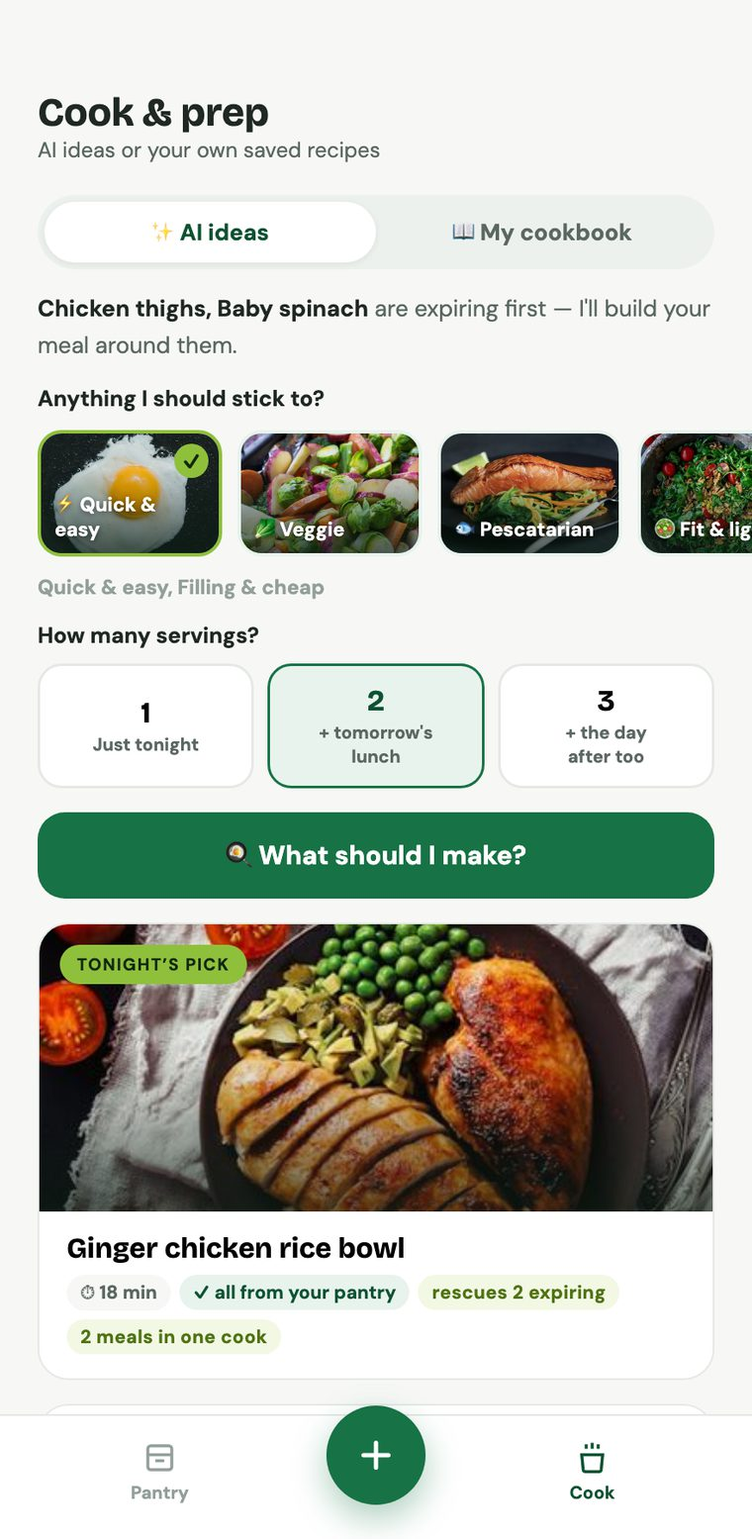
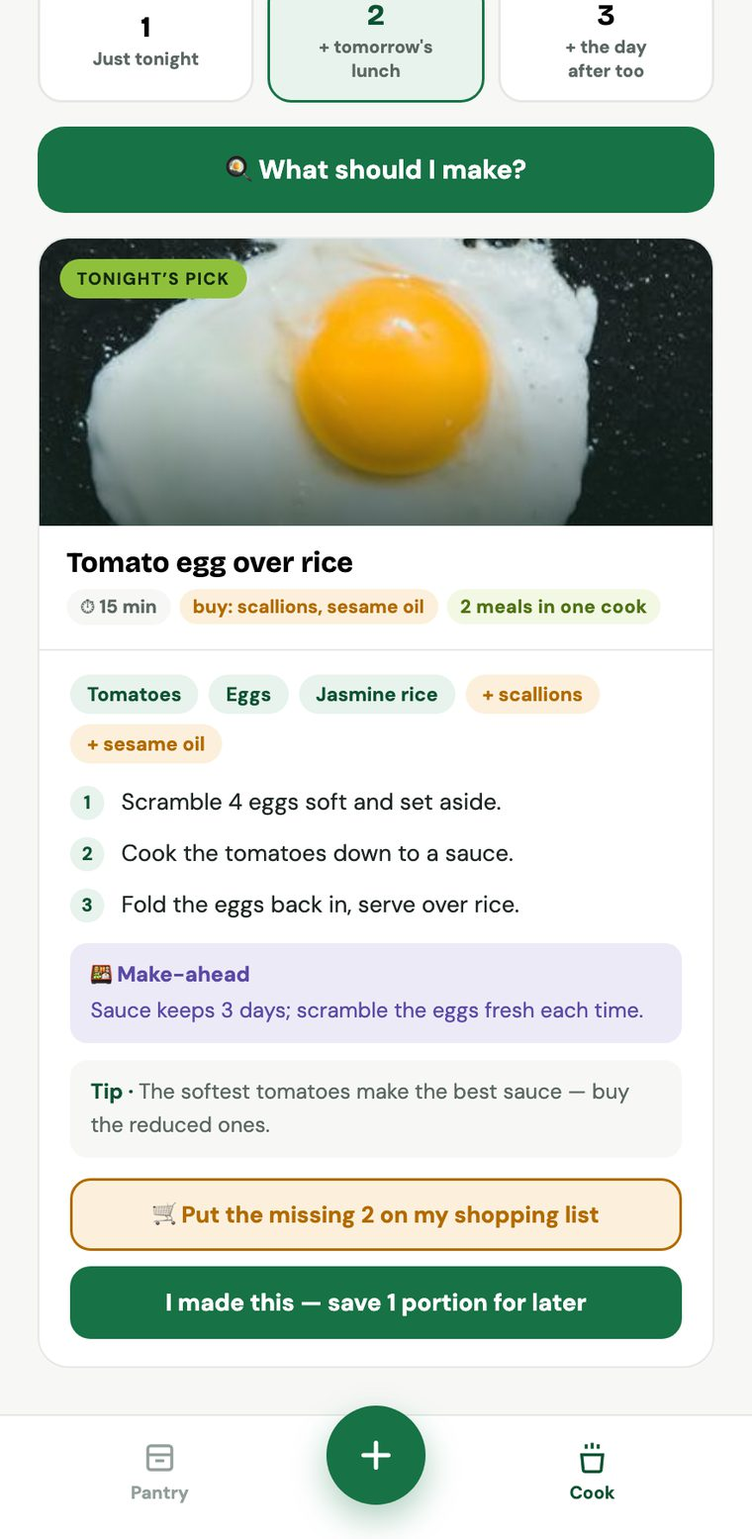
Close the loop: give "what's missing" somewhere to go
Shelfie could tell you a recipe was short two ingredients and then drop
it — the shortfall is discovered at the stove and needed in the shop,
hours later, with nothing carrying it between the two. That was the last
open half of the behaviour chain.

The shopping list is the other half of the pantry rather than a fourth
tab: "What I have" and "What I need" are two segments of one place,
because they are two states of the same inventory. Every line keeps the
reason it exists — "for Tomato egg over rice", "running low" — since a
bare list of five words is unreadable in a shop the next day. Things
arrive from a recipe card in one tap, from a pantry row's restock
button, or typed.

The receipt closes the circuit with no user action: commitReview() ticks
off everything the scan matched — "4 items added · 2 ticked off your
list". Cook → short → list → shop → receipt → pantry → cook.

Fixed while building it:
- the missing-ingredient engine substring-matched its assumed-staples
  list, so "sesame oil" counted as owned because of "oil". A card would
  say "buy sesame oil" while the list silently skipped it. Now every
  token must be a staple word: "olive oil" is assumed, "sesame oil" is
  a real purchase.
- restocking something you still own was impossible: the have-check
  that protects recipe imports ate it. addToList() takes an explicit
  restock opt-out.
- the What-I-have count went stale after any pantry edit.

diff --git a/prototypes/shelfie.html b/prototypes/shelfie.html
@@ -154,6 +154,37 @@ button{font-family:var(--sans);cursor:pointer;border:none;background:none}
 .btn-block{display:block;width:calc(100% - 44px);margin:14px 22px}
 .err{display:none;margin:6px 22px;background:var(--red-bg);border-radius:14px;padding:12px 16px;font-size:13px;color:var(--red);line-height:1.5}
 
+/* shopping list */
+.seg .cnt{display:inline-block;margin-left:6px;background:var(--ink-3);color:#fff;font-size:10.5px;font-weight:700;padding:1px 6px;border-radius:999px;min-width:18px}
+.seg .cnt:empty{display:none}
+.seg button.on .cnt{background:var(--green)}
+.addline{display:flex;gap:8px;margin:12px 22px 4px}
+.addline input{flex:1;min-width:0;padding:11px 14px;border:1.5px solid var(--line);border-radius:14px;font-size:14px;font-family:var(--sans);background:#fff}
+.addline input:focus{border-color:var(--green);outline:none}
+.addline button{flex:0 0 46px;border-radius:14px;background:var(--green);color:#fff;font-size:20px;font-weight:700}
+.addline button:hover{background:var(--green-deep)}
+.lrow{background:var(--card);border:1px solid var(--line);border-radius:14px;padding:11px 13px;display:flex;align-items:center;gap:11px;margin-bottom:8px}
+.lrow .box{flex:0 0 24px;height:24px;border:2px solid #C3D2C8;border-radius:8px;display:flex;align-items:center;justify-content:center;font-size:13px;color:transparent}
+.lrow .box:hover{border-color:var(--green)}
+.lrow .nm{font-size:14.5px;font-weight:700}
+.lrow .why{font-size:11.5px;color:var(--ink-3);margin-top:1px}
+.lrow .why b{color:var(--green-deep);font-weight:700}
+.lrow .del{margin-left:auto;color:var(--ink-3);font-size:15px;padding:4px 2px 4px 8px}
+.lrow .del:hover{color:var(--red)}
+.lrow.got{opacity:.55}
+.lrow.got .box{background:var(--green);border-color:var(--green);color:#fff}
+.lrow.got .nm{text-decoration:line-through}
+.gothead{display:flex;align-items:center;gap:8px;margin:16px 0 8px}
+.gothead b{font-size:13px;font-weight:700;letter-spacing:.06em;text-transform:uppercase;color:var(--ink-3)}
+.gothead button{margin-left:auto;font-size:12px;font-weight:700;color:var(--green-deep);text-decoration:underline;text-underline-offset:3px}
+.listnote{margin:4px 22px 0;font-size:12.5px;color:var(--ink-2);line-height:1.55}
+.listnote b{color:var(--ink)}
+.btn-list{display:block;width:100%;border:1.5px solid var(--amber);color:var(--amber);background:var(--amber-bg);font-size:13.5px;font-weight:700;padding:11px;border-radius:12px;text-align:center;margin-bottom:9px}
+.btn-list:hover{background:#F8E6C6}
+.btn-list.done{border-color:var(--line);background:var(--paper);color:var(--ink-3);cursor:default}
+.item .buy{color:var(--ink-3);font-size:14px;padding:4px 2px 4px 8px}
+.item .buy:hover{color:var(--green-deep)}
+
 /* cook segments */
 .seg{display:flex;background:#EDF1EE;border-radius:999px;padding:4px;margin:6px 22px 4px}
 .seg button{flex:1;padding:9px;border-radius:999px;font-size:13.5px;font-weight:700;color:var(--ink-2)}
@@ -310,7 +341,19 @@ button{font-family:var(--sans);cursor:pointer;border:none;background:none}
         <button class="avatar" id="avBtn" onclick="go('acct')" aria-label="Account">·</button>
       </div>
     </div>
+    <div class="seg" role="tablist">
+      <button class="on" id="segHave" onclick="setPanTab('have')">🧺 What I have<span class="cnt" id="cntHave"></span></button>
+      <button id="segNeed" onclick="setPanTab('need')">🛒 What I need<span class="cnt" id="cntNeed"></span></button>
+    </div>
     <div id="pantryList"></div>
+    <div id="needList" style="display:none">
+      <div class="addline">
+        <input id="lName" placeholder="Something else to pick up…" autocomplete="off" onkeydown="if(event.key==='Enter')addTypedList()">
+        <button onclick="addTypedList()" aria-label="Add to list">＋</button>
+      </div>
+      <p class="listnote" id="listNote"></p>
+      <div id="listRows"></div>
+    </div>
   </div>
 
   <!-- ADD -->
@@ -492,7 +535,7 @@ let pantry=[
   {name:"Soy sauce",emoji:"🫙",qty:"1 bottle",days:365}
 ];
 let prepped=[], cookbook=[], saved=0, cookedCount=0, servings=1, detected=[], pendingRecipe=null;
-let src='receipt', typedDays=2, menu=[];
+let src='receipt', typedDays=2, menu=[], list=[], panTab='have';
 const $=id=>document.getElementById(id);
 function esc(s){return String(s).replace(/&/g,'&amp;').replace(/</g,'&lt;');}
 function escA(s){return esc(s).replace(/"/g,'&quot;');}
@@ -500,7 +543,7 @@ function escA(s){return esc(s).replace(/"/g,'&quot;');}
 let signedIn=false;
 async function persist(){
   if(!hasStore)return;
-  try{ await window.storage.set(KEY, JSON.stringify({profile,signedIn,pantry,prepped,cookbook,saved,cookedCount,menu})); setSync(true); }
+  try{ await window.storage.set(KEY, JSON.stringify({profile,signedIn,pantry,prepped,cookbook,saved,cookedCount,menu,list})); setSync(true); }
   catch(e){ setSync(false); }
 }
 async function restore(){
@@ -511,7 +554,7 @@ async function restore(){
     if(r&&r.value){
       const s=JSON.parse(r.value);
       profile=s.profile||null; signedIn=!!s.signedIn; pantry=s.pantry||pantry; prepped=s.prepped||[];
-      cookbook=s.cookbook||[]; saved=s.saved||0; cookedCount=s.cookedCount||0; menu=s.menu||[];
+      cookbook=s.cookbook||[]; saved=s.saved||0; cookedCount=s.cookedCount||0; menu=s.menu||[]; list=s.list||[];
       if(profile&&signedIn){ enterApp(true); }
       else if(profile){ showLoginMode(); }
     }
@@ -563,7 +606,7 @@ function logIn(){
 }
 async function startFresh(){
   profile=null; signedIn=false;
-  pantry=[];prepped=[];cookbook=[];saved=0;cookedCount=0;
+  pantry=[];prepped=[];cookbook=[];saved=0;cookedCount=0;list=[];
   if(hasStore){try{await window.storage.delete(KEY);}catch(e){}}
   rollName();
   $('loginBox').style.display='none';
@@ -594,7 +637,7 @@ function signOut(){
   toast('Signed out — log back in with your email');
 }
 async function clearData(){
-  pantry=[];prepped=[];cookbook=[];saved=0;cookedCount=0;
+  pantry=[];prepped=[];cookbook=[];saved=0;cookedCount=0;list=[];
   if(hasStore){try{await window.storage.delete(KEY);}catch(e){}}
   renderPantry(); updateStats(); toast('All data cleared');
 }
@@ -608,7 +651,7 @@ function go(k){
   $({pantry:'vPantry',add:'vAdd',cook:'vCook',acct:'vAcct',import:'vImport'}[k]).classList.add('on');
   $('tPantry').classList.toggle('on',k==='pantry');
   $('tCook').classList.toggle('on',k==='cook'||k==='import');
-  if(k==='pantry')renderPantry();
+  if(k==='pantry'){renderPantry();renderList();updateCounts();}
   if(k==='cook'){renderCookIntro();renderMenuChips();renderBook();}
   if(k==='acct')updateStats();
 }
@@ -635,6 +678,7 @@ function lifeLabel(d){
 }
 function lifeClass(d){return d<=1?'d0':(d<=3?'d1':'d2');}
 function renderPantry(){
+  updateCounts();
   const el=$('pantryList');
   if(!pantry.length&&!prepped.length){el.innerHTML='<div class="empty-pan"><div class="big">🧺</div><b>Nothing tracked yet.</b><br>Tap ＋ below and scan the receipt from your<br>last grocery run — it takes one photo.</div>';return;}
   const soon=pantry.filter(p=>p.days<=3).sort((a,b)=>a.days-b.days);
@@ -643,7 +687,7 @@ function renderPantry(){
   const prow=(p,i)=>`<div class="item prepitem"><span class="em">🍱</span><div><div class="nm">${esc(p.name)}</div><div class="qt">${p.portions} portion${p.portions>1?'s':''} ready to eat</div></div><span class="life dp">eat within ${p.days}d</span><button class="del" aria-label="Eat one portion" onclick="eatPrep(${i})">✓</button></div>`;
   const row=p=>{const i=pantry.indexOf(p);
     const sub=[p.qty,p.price?'$'+Number(p.price).toFixed(2):''].filter(Boolean).join(' · ');
-    return `<div class="item">${ingThumb(p)}<div><div class="nm">${esc(p.name)}</div><div class="qt">${esc(sub)}</div></div><span class="life ${lifeClass(p.days)}">${lifeLabel(p.days)}</span><button class="del" aria-label="Remove ${esc(p.name)}" onclick="delItem(${i})">✕</button></div>`;};
+    return `<div class="item">${ingThumb(p)}<div><div class="nm">${esc(p.name)}</div><div class="qt">${esc(sub)}</div></div><span class="life ${lifeClass(p.days)}">${lifeLabel(p.days)}</span><button class="buy" aria-label="Add ${escA(p.name)} to shopping list" title="Add to shopping list" onclick="buyAgain(${i})">🛒</button><button class="del" aria-label="Remove ${escA(p.name)}" onclick="delItem(${i})">✕</button></div>`;};
   const grp=(cls,title,html,n)=>n?`<div class="grp"><div class="grp-h ${cls}"><b>${title}</b><span class="n">${n}</span></div>${html}</div>`:'';
   el.innerHTML=
     grp('prep','🍱 Prepped &amp; ready',prepped.map(prow).join(''),prepped.length)+
@@ -651,6 +695,99 @@ function renderPantry(){
     grp('fresh','✦ Fresh',fresh.map(row).join(''),fresh.length)+
     grp('staple','◆ Staples',staple.map(row).join(''),staple.length);
 }
+/* ---------- shopping list ---------- */
+/* The pantry answers "what do I have"; this answers "what don't I", which is
+   why they are two halves of one tab rather than two places. Every entry keeps
+   the reason it exists — a recipe name, or "ran out" — because that reason is
+   what makes a list in a shop readable a day after you wrote it. */
+function setPanTab(t){
+  panTab=t;
+  $('segHave').classList.toggle('on',t==='have');
+  $('segNeed').classList.toggle('on',t==='need');
+  $('pantryList').style.display=t==='have'?'block':'none';
+  $('needList').style.display=t==='need'?'block':'none';
+  if(t==='need')renderList();
+}
+function onList(name){
+  const n=norm(name);
+  return list.some(l=>{const ln=norm(l.name);return ln===n||ln.includes(n)||n.includes(ln);});
+}
+/* Already in the pantry, or already written down: either way, don't add it twice.
+   `restock` opts out of the pantry check — "running low" is about something you
+   still have, so the check that protects recipe imports would silently eat it. */
+function addToList(names,why,restock){
+  const added=[];
+  names.forEach(nm=>{
+    const name=String(nm).trim();
+    if(!name||onList(name))return;
+    if(!restock&&haveIngredient(name))return;
+    list.push({name,why:why||'',forRecipe:!restock,got:false});
+    added.push(name);
+  });
+  updateCounts(); renderList(); persist();
+  return added;
+}
+function addTypedList(){
+  const v=$('lName').value.trim();
+  if(!v){toast('Type what you need first');return;}
+  const added=addToList([v],'you added it',true);
+  $('lName').value='';
+  toast(added.length?v+' is on the list':v+' is already on the list');
+}
+function addMissingFrom(names,dish){
+  const added=addToList(names,dish);
+  if(!added.length){toast('Already on your list');return false;}
+  toast(added.length+(added.length>1?' things':' thing')+' added for '+dish);
+  return true;
+}
+function addRecMissing(i){
+  const rc=window._recs[i];
+  if(addMissingFrom(rc.missing||[],rc.name)){
+    const b=$('lbtn'+i); if(b){b.textContent='✓ On your shopping list';b.classList.add('done');}
+  }
+}
+function addBookMissing(i){
+  const r=cookbook[i];
+  if(addMissingFrom(missingFor(r),r.name)){
+    const b=$('blbtn'+i); if(b){b.textContent='✓ On your shopping list';b.classList.add('done');}
+  }
+}
+function buyAgain(i){
+  const p=pantry[i];
+  const added=addToList([p.name],'running low',true);
+  toast(added.length?p.name+' added to your list':p.name+' is already on the list');
+}
+function toggleGot(i){ list[i].got=!list[i].got; renderList(); updateCounts(); persist(); }
+function delListItem(i){ const n=list[i].name; list.splice(i,1); renderList(); updateCounts(); persist(); toast('Removed '+n); }
+function clearGot(){ list=list.filter(l=>!l.got); renderList(); updateCounts(); persist(); }
+function renderList(){
+  const todo=list.map((l,i)=>({l,i})).filter(x=>!x.l.got);
+  const got=list.map((l,i)=>({l,i})).filter(x=>x.l.got);
+  const row=({l,i})=>`<div class="lrow${l.got?' got':''}">
+      <button class="box" onclick="toggleGot(${i})" aria-label="${l.got?'Not got yet':'Got it'}" aria-pressed="${l.got}">✓</button>
+      <div><div class="nm">${esc(l.name)}</div>${l.why?`<div class="why">${l.forRecipe?'for ':''}<b>${esc(l.why)}</b></div>`:''}</div>
+      <button class="del" onclick="delListItem(${i})" aria-label="Remove ${escA(l.name)}">✕</button>
+    </div>`;
+  $('listRows').innerHTML= (list.length?'':`<div class="empty-pan"><div class="big">🛒</div><b>Nothing to buy yet.</b><br>When a recipe needs something you don't have,<br>one tap puts it here — and your next receipt<br>ticks it off by itself.</div>`)
+    + (todo.length?`<div class="grp">${todo.map(row).join('')}</div>`:'')
+    + (got.length?`<div class="grp"><div class="gothead"><b>In the basket</b><button onclick="clearGot()">Clear ${got.length}</button></div>${got.map(row).join('')}</div>`:'');
+  const note=$('listNote');
+  if(note)note.innerHTML=list.length?`<b>${todo.length}</b> still to pick up. Scan the receipt when you get back and everything you bought comes off this list on its own.`:'';
+}
+function updateCounts(){
+  $('cntHave').textContent=pantry.length||'';
+  $('cntNeed').textContent=list.filter(l=>!l.got).length||'';
+}
+/* The loop closes here: what you just bought leaves the list without being asked. */
+function tickOffList(bought){
+  const before=list.length;
+  list=list.filter(l=>!bought.some(b=>{
+    const bn=norm(b.name), ln=norm(l.name);
+    return bn===ln||bn.includes(ln)||ln.includes(bn);
+  }));
+  return before-list.length;
+}
+
 function delItem(i){
   const p=pantry[i]; pantry.splice(i,1);
   /* A receipt-scanned item knows its real price, so the counter stops guessing. */
@@ -917,7 +1054,9 @@ function commitReview(){
   const picks=detected.filter(d=>!d.off&&d.name.trim());
   if(!picks.length)return;
   pantry=pantry.concat(picks.map(p=>({name:p.name.trim(),emoji:p.emoji,qty:p.qty,price:p.price,days:p.days})));
-  toast(picks.length+(picks.length>1?' items':' item')+' added to pantry');
+  const ticked=tickOffList(picks);
+  toast(picks.length+(picks.length>1?' items':' item')+' added to pantry'
+    +(ticked?` \u00b7 ${ticked} ticked off your list`:''));
   resetAdd();
   renderPantry(); persist(); go('pantry');
 }
@@ -1001,9 +1140,16 @@ function previewImport(rec){
         <div class="uses">${(rec.ingredients||[]).map(g=>{const has=!miss.includes(g.name);return `<span class="${has?'':'miss'}">${has?'':'+ '}${esc(g.name)}</span>`;}).join('')}</div>
         <ol class="steps">${(rec.steps||[]).slice(0,6).map((s,n)=>`<li><b>${n+1}</b><span>${esc(s)}</span></li>`).join('')}</ol>
         ${rec.source?`<div class="src-line">Source: ${esc(rec.source)}</div>`:''}
+        ${miss.length?`<button class="btn-list" id="ilbtn" onclick="addImportMissing()">🛒 Put the missing ${miss.length===1?'one':miss.length} on my shopping list</button>`:''}
         <button class="btn-made" onclick="saveRecipe()">Save to my cookbook</button>
       </div>
     </div>`;
+}
+function addImportMissing(){
+  if(!pendingRecipe)return;
+  if(addMissingFrom(missingFor(pendingRecipe),pendingRecipe.name)){
+    const b=$('ilbtn'); if(b){b.textContent='✓ On your shopping list';b.classList.add('done');}
+  }
 }
 function saveRecipe(){
   cookbook.unshift(pendingRecipe);
@@ -1014,11 +1160,20 @@ function saveRecipe(){
 }
 
 /* ---------- missing-ingredient engine ---------- */
-const PANTRY_ASSUMED=['water','salt','pepper','oil','sugar'];
+/* Assumed always-in-the-kitchen words. Matched per token and only when EVERY
+   token is one of them: "salt and pepper" and "olive oil" are assumed, but
+   "sesame oil" is a real purchase. Substring matching used to swallow it — the
+   card would say "buy sesame oil" while the shopping list quietly skipped it. */
+const PANTRY_ASSUMED=['water','salt','pepper','oil','sugar','black','white','sea','kosher',
+  'ground','olive','vegetable','cooking','canola','neutral','and','or','to','taste','a','of','some','pinch'];
 function norm(s){return String(s).toLowerCase().replace(/e?s\b/g,'').trim();}
+function isAssumed(name){
+  const w=norm(name).split(/[^a-z]+/).filter(Boolean);
+  return w.length>0&&w.every(x=>PANTRY_ASSUMED.includes(x));
+}
 function haveIngredient(name){
   const n=norm(name);
-  if(PANTRY_ASSUMED.some(a=>n.includes(a)))return true;
+  if(isAssumed(name))return true;
   return pantry.concat(prepped.map(p=>({name:p.name}))).some(p=>{
     const pn=norm(p.name);
     return pn.includes(n)||n.includes(pn)||pn.split(' ').some(w=>w.length>3&&n.includes(w));
@@ -1049,7 +1204,8 @@ function renderBook(){
         <div class="uses">${(r.ingredients||[]).map(g=>{const has=!miss.includes(g.name);return `<span class="${has?'':'miss'}">${has?'✓ ':'+ buy '}${esc(g.name)}${g.qty?' · '+esc(g.qty):''}</span>`;}).join('')}</div>
         <ol class="steps">${(r.steps||[]).map((s,n)=>`<li><b>${n+1}</b><span>${esc(s)}</span></li>`).join('')}</ol>
         ${r.source?`<div class="src-line">Source: ${esc(r.source)}</div>`:''}
-        ${miss.length?'':`<button class="btn-made" onclick="cookSaved(${i})">I made this</button>`}
+        ${miss.length?`<button class="btn-list" id="blbtn${i}" onclick="addBookMissing(${i})">🛒 Put the missing ${miss.length===1?'one':miss.length} on my shopping list</button>`
+                     :`<button class="btn-made" onclick="cookSaved(${i})">I made this</button>`}
         <button class="rdel" onclick="delRecipe(${i})">Remove from cookbook</button>
       </div>
     </div>`).join('');
@@ -1150,6 +1306,7 @@ async function getRecipes(){
           <ol class="steps">${(rc.steps||[]).map((s,n)=>`<li><b>${n+1}</b><span>${esc(s)}</span></li>`).join('')}</ol>
           ${(servings>1&&rc.prep_note)?`<div class="prepnote"><b>🍱 Make-ahead</b>${esc(rc.prep_note)}</div>`:''}
           ${rc.tip?`<div class="tip"><b>Tip · </b>${esc(rc.tip)}</div>`:''}
+          ${(rc.missing&&rc.missing.length)?`<button class="btn-list" id="lbtn${i}" onclick="addRecMissing(${i})">🛒 Put the missing ${rc.missing.length===1?'one':rc.missing.length} on my shopping list</button>`:''}
           <button class="btn-made" id="made${i}" onclick="madeIt(${i})">I made this${servings>1?' — save '+(servings-1)+' portion'+(servings>2?'s':'')+' for later':''}</button>
         </div>
       </div>`).join('');

diff --git a/app.js b/app.js
@@ -113,24 +113,27 @@ const CASES=[
   key:'shelfie', acc:'var(--shelfie)', name:'Shel<span class="thin">fie</span>', plain:'Shelfie',
   type:'AI-native product', stack:'Claude API · JS',
   proto:'prototypes/shelfie.html', protoNote:'Explore the full UI and flows in your browser. AI features (receipt parsing, photo recognition, recipe generation) require an API backend — the demo video shows them running live.',
-  hook:'Scan the receipt. Cook what you have.',
-  lede:['For solo cooks trying to save money, the real enemy is waste — bought, forgotten, spoiled, tossed. Shelfie cuts tracking cost to one photo of the receipt: AI reads every line, expands the store’s shorthand into real names, carries the prices across, and sorts the pantry by what to use first.',
-        'This shipped as a working AI prototype across four iterations — the receipt and vision parsing, recipe generation, and link import make real model calls, failures included.'],
+  hook:'Scan the receipt. Cook what you have. Buy what you don\u2019t.',
+  lede:['For solo cooks trying to save money, the real enemy is waste \u2014 bought, forgotten, spoiled, tossed. Shelfie cuts tracking cost to one photo of the receipt: AI reads every line, expands the store\u2019s shorthand into real names, carries the prices across, and sorts the pantry by what to use first.',
+        'What closes it is the shopping list. Whatever a recipe is short of goes there in one tap, each line remembering which dish asked for it \u2014 and the next receipt scan takes it off again unasked. Cook \u2192 short \u2192 shop \u2192 scan \u2192 pantry, with nothing to reconcile by hand.',
+        'This shipped as a working AI prototype across five iterations \u2014 the receipt and vision parsing, recipe generation, and link import make real model calls, failures included.'],
   motif:`<svg viewBox="0 0 640 360" fill="none" role="img" aria-label="Camera viewfinder over a grocery shelf illustration"><line x1="170" y1="240" x2="470" y2="240" stroke="var(--ink)" stroke-width="3"/><circle cx="240" cy="215" r="21" stroke="var(--shelfie)" stroke-width="3"/><rect x="295" y="188" width="40" height="52" rx="6" stroke="var(--shelfie)" stroke-width="3"/><path d="M382 240 v-36 a17 17 0 0 1 34 0 v36" stroke="var(--shelfie)" stroke-width="3"/><path d="M188 118 h-24 v24 M452 118 h24 v24 M188 302 h-24 v-24 M452 302 h24 v-24" stroke="var(--shelfie)" stroke-width="4" stroke-linecap="round"/><text x="320" y="104" text-anchor="middle" font-family="Source Serif 4" font-style="italic" font-size="17" fill="var(--ink-2)">3 items · est. 5 days</text></svg>`,
   shots:[{src:'shelfie-add.jpg',cap:'Three ways in, stacked in the order of what they cost you \u2014 and one review step all of them pass through.'},
-         {src:'shelfie-pantry.jpg',cap:'The pantry, grouped by urgency: Use soon comes first, with receipt prices and a photo per item.'},
-         {src:'shelfie-cook.jpg',cap:'Menu lanes as pictures, then servings as meals \u2014 and tonight\u2019s pick gets the full-bleed card.'},
-         {src:'shelfie-book.jpg',cap:'The cookbook sorts by what is missing, so what you can cook right now rises to the top.'}],
+         {src:'shelfie-pantry.jpg',cap:'What I have: grouped by urgency, receipt prices attached, a photo per item.'},
+         {src:'shelfie-list.jpg',cap:'What I need: every line remembers which recipe put it there, and the next receipt ticks it off unasked.'},
+         {src:'shelfie-cook.jpg',cap:'Tonight\u2019s pick gets the full-bleed card \u2014 and one tap sends what it is missing to the list.'}],
   wires:[
     {k:'phone',t:'01 Pantry',cap:'Grouped by urgency, not by taxonomy — "use soon" is the first thing on screen. A single ＋ leads to every way in.',p:['nav:2','note:Use soon','rows:6','fab','tabs:3']},
     {k:'phone',t:'02 Three ways in',cap:'Receipt, photo, typing — stacked in cost order with the cheapest expanded. Whichever you pick, the next screen is the same one.',p:['nav:2','note:Scan the receipt · fastest','rows:2','img','btn']},
     {k:'phone',t:'03 Review',cap:'The gate everything passes through: names, quantities and shelf life all editable, a row for whatever got missed, nothing saved until you say so.',p:['nav:2','note:Before it goes in','rows:4','btn']},
-    {k:'phone',t:'04 Cook',cap:'Servings stated as meals — tonight, plus tomorrow\u2019s lunch — and the cookbook sorted by what is missing.',p:['nav:2','head','chips:3','cards:6','tabs:3']}
+    {k:'phone',t:'04 What I need',cap:'The other half of the pantry. Each line keeps the recipe that put it there, and the next receipt removes it without being asked.',p:['nav:2','chips:2','note:4 still to pick up','rows:4','tabs:3']},
+    {k:'phone',t:'05 Cook',cap:'Servings stated as meals \u2014 tonight, plus tomorrow\u2019s lunch \u2014 and the cookbook sorted by what is missing.',p:['nav:2','head','chips:3','cards:6','tabs:3']}
   ],
   chapters:[
   `<p>Decomposing "cook to save money" into a behavior chain — buy → store → remember → decide → cook → finish — showed the breakage clusters in the middle: the fridge is a black box, "what's for dinner" arrives at the day's lowest-energy moment, and recipes saved from YouTube live in a parallel world from the actual inventory.</p>
    <p>A competitive walkthrough found one shared cause of death in inventory apps: <b>manual entry</b>. Typing groceries item by item costs more than it returns; most users quit within a week.</p>
    <p>The project's pivotal artifact is an <b>AI opportunity map</b> — every step evaluated on "can AI substantially lower the cost here," not "can AI be bolted on." Adopted: receipt parsing, photo recognition, inventory-driven recipe generation, and recipe import from links, text, and screenshots. Deliberately non-AI: missing-ingredient checks (local matching — instant, free, explainable). Rejected outright: a chat assistant, which adds interaction cost and contradicts the zero-typing thesis.</p>
+   <p>Mapping the chain end to end also showed it was not a chain but a <b>loop</b>, and that the product covered only half of it: cook \u2192 <i>ran out</i> \u2192 buy \u2192 store is exactly where users fell back to paper and Notes.app. A shortfall is discovered at the stove and needed in the shop, hours later, and nothing was carrying it between the two.</p>
    <p>Looking harder at the buy step is what moved the receipt to the front. <b>The receipt is the only complete, itemised, priced record of what actually entered the kitchen</b> — printed for free, by someone else, at the exact moment of purchase. A photo of the counter can only see what is unwrapped and facing the lens; the receipt already lists the boxed, bagged and frozen half of the haul, with weights and prices attached.</p>`,
   `<ul>
      <li><b>Entry equals abandonment.</b> Every manual-entry solution dies within a week.</li>
@@ -138,11 +141,13 @@ const CASES=[
      <li><b>An AI-only entrance is a dead end.</b> When recognition misfires or the network drops, an app with no typed path has nothing left to offer — the user is left holding groceries.</li>
      <li><b>The fridge black box.</b> Invisible inventory makes "forgot → spoiled → tossed" the default ending.</li>
      <li><b>Decision paralysis.</b> An open-ended dinner question at the lowest-energy moment slides toward takeout.</li>
+     <li><b>Nowhere for "what's missing" to go.</b> An app can say a recipe needs two things you don't have and then drop it \u2014 which leaves the user retyping the shortfall into a notes app, or forgetting it until they are back at the stove.</li>
      <li><b>Recipes disconnected from inventory.</b> Saved recipes scatter across camera rolls with zero link to the kitchen; missing ingredients surface at cooking time.</li>
      <li><b>Serving-size mismatch.</b> Recipes default to four servings; "cook once for the next few days" — the real saving strategy — has no product support.</li>
    </ul>`,
   `<p>Three tabs plus a central ＋ — the only way into the pantry, with three sources behind it:</p>
-   <div class="iablock"><b>Pantry</b> (home) — Prepped & ready · ⏳ Use soon · Fresh · Staples · $-saved counter
+   <div class="iablock"><b>Pantry</b> (home) — 🧺 What I have: Prepped & ready · ⏳ Use soon · Fresh · Staples · $-saved counter
+       — 🛒 What I need: to buy (each with the recipe that asked) · in the basket · typed additions
 <b>[＋ FAB]</b> — 🧾 receipt scan (open by default) / 📸 food photo / ✍ typed entry
        — all three land in one editable review → in
 <b>Cook</b> — ✨ AI ideas (menu chips: quick / veggie / pescatarian / light / filling · servings: tonight / +lunch / +day after · Make-ahead cards)
@@ -154,6 +159,8 @@ const CASES=[
      <li><b>Three ways in, stacked in cost order.</b> Receipt scan sits first and open by default, food photo second, typing third and collapsed. Same destination, honest ranking: the interface pushes the cheapest path without hiding the fallback.</li>
      <li><b>One review step, shared by all three.</b> Names, quantities and shelf life are editable in place, unchecking drops a row, and a blank row catches whatever the scan missed. Nothing reaches the pantry any other way — which makes the confirmation a real gate rather than a receipt for the AI.</li>
      <li><b>Every failure exits into typing.</b> A failed scan prints its own way out — "type it in instead, that always works" — which is how manual entry earns a place in the product that its own research says kills apps.</li>
+     <li><b>The shopping list is the other half of the pantry, not a fourth tab.</b> One screen answers "what do I have", its twin answers "what don't I" \u2014 two segments of the same place, because they are two states of the same inventory. Every line keeps the reason it exists ("for Tomato egg over rice", "running low"), since a bare list of five words is unreadable in a shop the next day.</li>
+     <li><b>The receipt closes the loop with no user action.</b> Scanning the haul removes from the list everything it matched \u2014 "4 items added \u00b7 2 ticked off your list". That one behaviour is what turns separate features into a circuit: cook \u2192 short \u2192 list \u2192 shop \u2192 receipt \u2192 pantry \u2192 cook. Nothing asks the user to reconcile anything by hand.</li>
      <li><b>Photography does the work the copy cannot.</b> Menu lanes are picture tiles rather than word chips, because "fit &amp; light" and "filling &amp; cheap" read as abstractions until you can see them; tonight's first suggestion gets a full-bleed card, the rest stay compact rows. A generated recipe can be any dish, so a photo per dish is impossible \u2014 instead a fixed category library is matched on the name, with the emoji showing through whenever nothing matches. Pantry rows use raw-ingredient shots, never plated dishes: a pantry row is something you own, not a meal you made.</li>
      <li><b>Prices ride along from the receipt.</b> Because the scan carries dollar amounts, the savings counter stops estimating: using a $7.81 pack of chicken before it turns credits $7.81, not a flat guess.</li>
      <li><b>The serving selector speaks intent</b>: Just tonight / + tomorrow's lunch / + the day after — servings translated into meal-prep scenarios.</li>
@@ -167,9 +174,10 @@ const CASES=[
      <div class="trow"><div class="tn">T2</div><div class="tb"><div class="task">Add something that came with no receipt — photo or typed, your choice</div><div class="crit">Finds the other two sources unprompted; after a forced scan failure, takes the typed exit</div></div></div>
      <div class="trow"><div class="tn">T3</div><div class="tb"><div class="task">Get a 3-serving recommendation and "cook" it</div><div class="crit">Understands the Make-ahead note, finds the Prepped group</div></div></div>
      <div class="trow"><div class="tn">T4</div><div class="tb"><div class="task">Save a YouTube recipe to the cookbook</div><div class="crit">Succeeds via any import path, understands the preview step</div></div></div>
-     <div class="trow"><div class="tn">T5</div><div class="tb"><div class="task">Pick a cookable-right-now dish</div><div class="crit">Uses the missing badges and sorting, ≤ 20 s</div></div></div>
+     <div class="trow"><div class="tn">T5</div><div class="tb"><div class="task">Pick a cookable-right-now dish</div><div class="crit">Uses the missing badges and sorting, \u2264 20 s</div></div></div>
+     <div class="trow"><div class="tn">T6</div><div class="tb"><div class="task">Cook something you are missing an ingredient for, then "go shopping" for it</div><div class="crit">Sends the shortfall to the list unprompted, finds it under What I need, expects the next receipt to clear it</div></div></div>
    </div>
-   <p>AI-specific metrics extend standard usability: <b>per-line receipt accuracy</b> against the paper itself (names expanded correctly, non-food lines skipped, nothing invented), <b>recognition acceptance rate</b>, <b>correction behavior rate</b> (if nobody ever corrects, the review step is theater), <b>recommendation adoption</b>, per-path import success, and <b>failure-path completion</b> — after a scan or a link fails, how many users follow the offered fallback and finish. North star post-launch: at least one full receipt → cook loop per week, with Use-soon consumption vs expiry-deletion as the waste-reduction proof.</p>`]
+   <p>AI-specific metrics extend standard usability: <b>per-line receipt accuracy</b> against the paper itself (names expanded correctly, non-food lines skipped, nothing invented), <b>recognition acceptance rate</b>, <b>correction behavior rate</b> (if nobody ever corrects, the review step is theater), <b>recommendation adoption</b>, per-path import success, and <b>failure-path completion</b> — after a scan or a link fails, how many users follow the offered fallback and finish. The loop gets its own measure \u2014 <b>list-completion rate</b>: of everything sent to the shopping list, how much comes back on a receipt rather than being deleted or left to rot there. North star post-launch: at least one full receipt \u2192 cook \u2192 list \u2192 receipt loop per week, with Use-soon consumption vs expiry-deletion as the waste-reduction proof.</p>`]
 },
 /* ---------- 04 · MUTUO ---------- */
 {

diff --git a/CLAUDE.md b/CLAUDE.md
@@ -74,6 +74,8 @@ Chapter HTML uses a fixed set of styled blocks — reuse them instead of inventi
 `shelfie.html` is the only page that calls a network API: five `fetch` calls to `https://api.anthropic.com/v1/messages` for receipt parsing, grocery photo recognition, recipe generation, and recipe import from text/URL/screenshot. Notes if you touch them:
 
 - The pantry has **three entrances — receipt scan, food photo, typed entry — and all three land in the same editable `detected[]` review list**; `commitReview()` is the only writer into `pantry`. Keep that funnel: adding a fourth source means feeding the same review, not a second path into `pantry`. `addErr()` renders every scan failure with a "type it in instead" button, which is what keeps the AI paths from being dead ends — don't reduce it to a plain message.
+- The Pantry tab is **two segments of one inventory**: `What I have` (`#pantryList`) and `What I need` (`#needList`), switched by `setPanTab()`. The shopping list is `list[]` of `{name, why, forRecipe, got}`. Only `addToList(names, why, restock)` writes to it — it refuses duplicates (`onList()`) and anything already owned (`haveIngredient()`), and `restock` is the opt-out that makes "running low" and typed entries work at all. **`commitReview()` calls `tickOffList()`**, so a receipt clears what it matched with no user action; that call is the thing that makes the four features one loop, so don't drop it when touching the intake.
+- `isAssumed()` in the missing-ingredient engine matches `PANTRY_ASSUMED` **per token, and only when every token is a staple word** — "salt and pepper" and "olive oil" are assumed present, "sesame oil" is not. It used to substring-match, which meant a card could say "buy sesame oil" while the shopping list silently skipped it. Keep the whole-name semantics if you extend the word list.
 - Photos live in `prototypes/assets/shelfie/` and are matched by **keyword, not by filename lookup**: `dishPhoto()` walks the `PHOTO` regex table for recipe cards (`dish.jpg`), `ingPhoto()` walks `ING` for pantry and review rows (`i-dish.jpg`), each falling back to `generic`/`i-generic`. Both are wrapped by `dishThumb()`/`ingThumb()`, which layer the `<img>` over the item's emoji so a missing file degrades to the emoji rather than a blank box. Add a category by adding a regex row *and* the file; don't hardcode a path at a call site. Every one of these `<img>`s is `loading="lazy"` with empty `alt` — the row text already names the thing.
 - `prototypes/assets/shelfie/CREDITS.md` records the photographer and Unsplash link for every file. The photos are Unsplash-License (free, commercial use, no attribution required); **Unsplash+ results were excluded on purpose**, so if you swap an image, check the API's `plus`/`premium` flags first — that pair is the only thing distinguishing a free photo from a licensed one.
 
